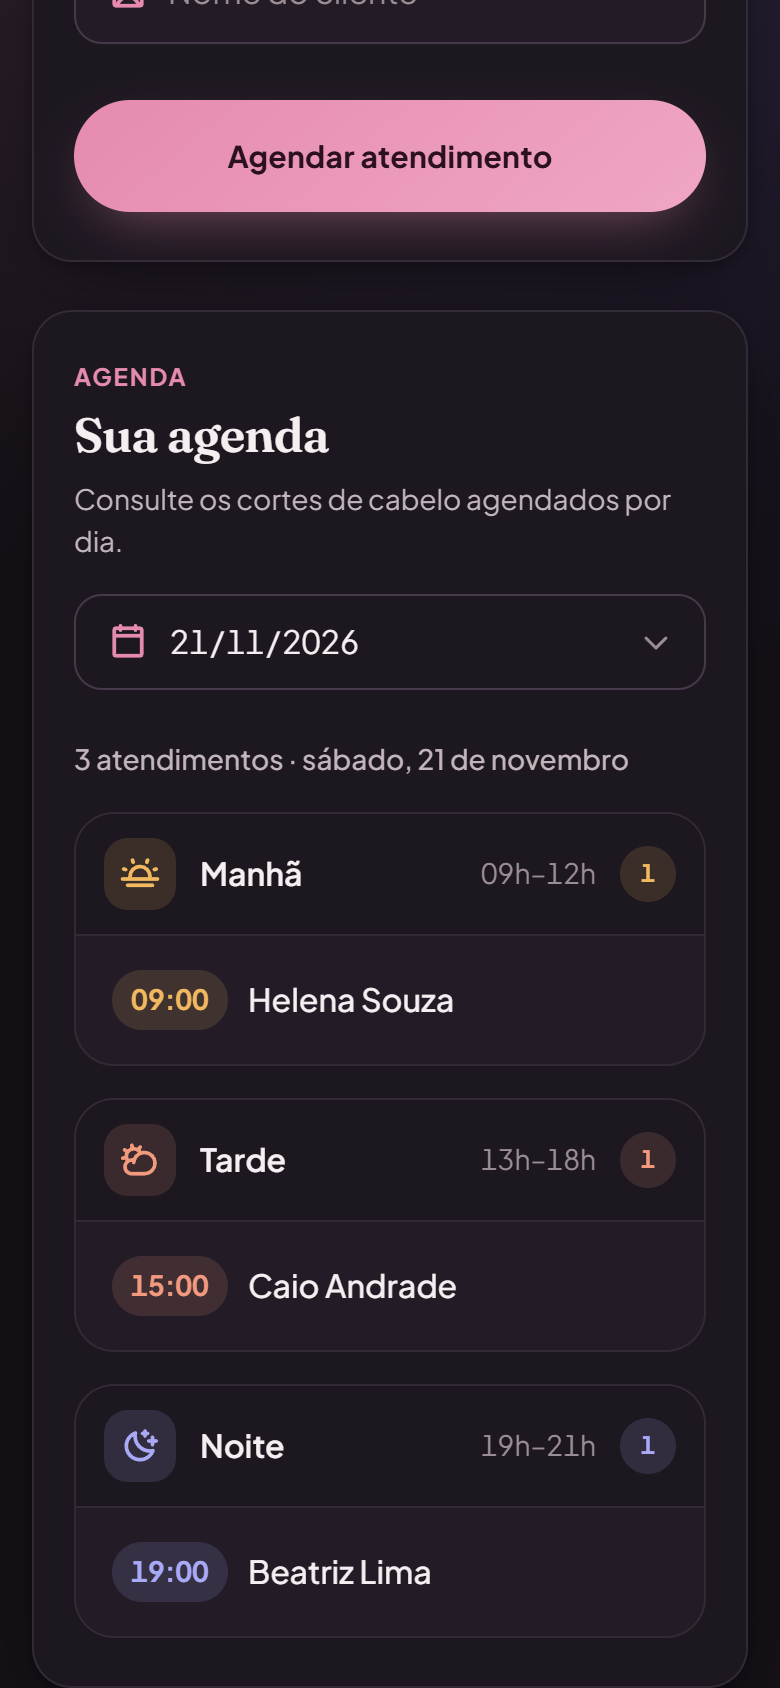
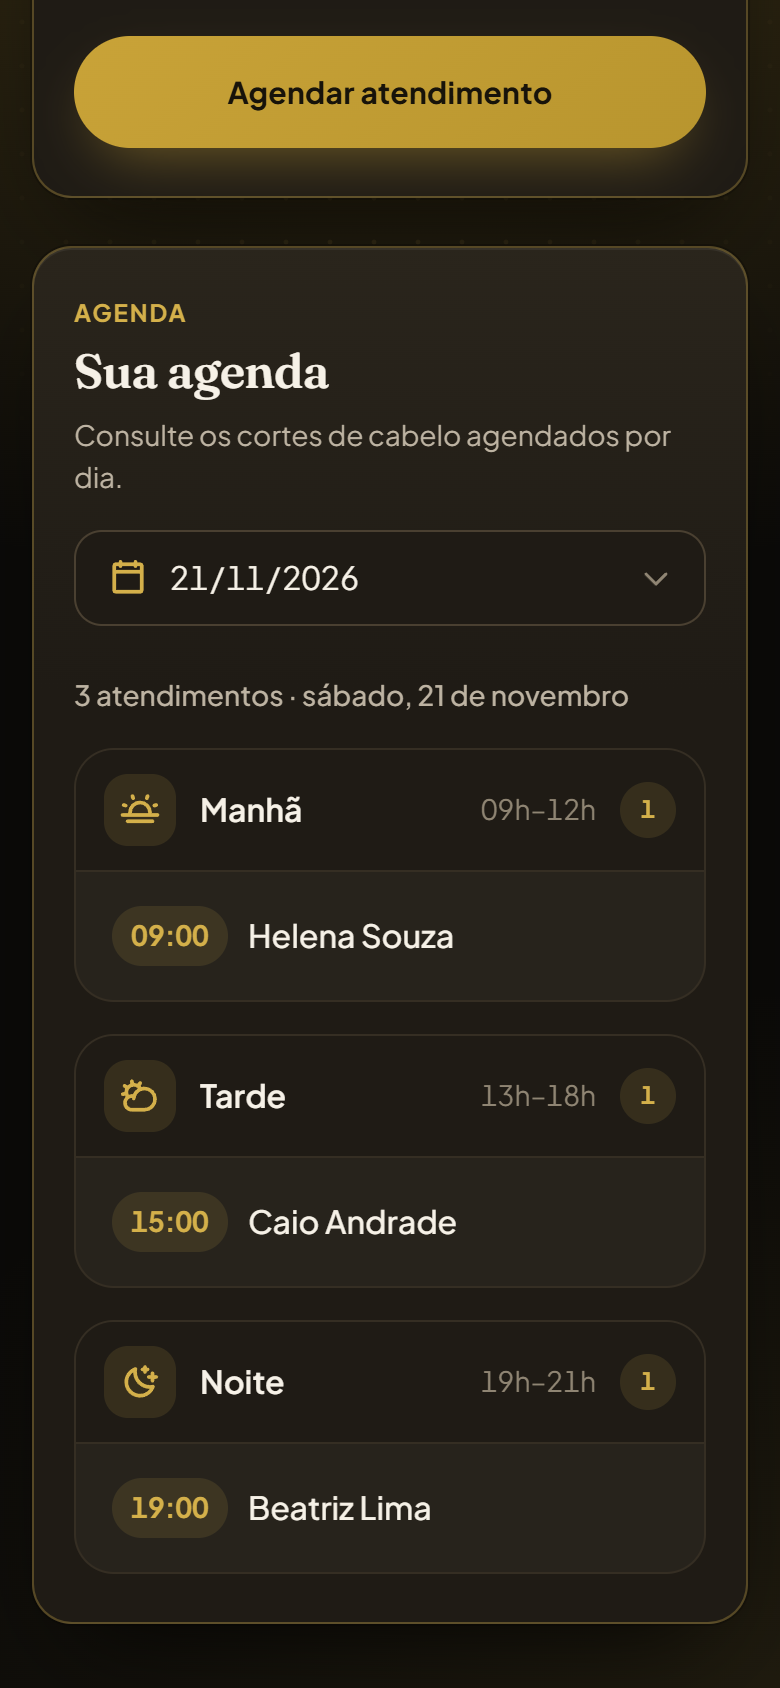
atualizando README com a nova paleta

diff --git a/README.md b/README.md
@@ -5,12 +5,12 @@
 </p>
 
 <p align="center">
-  <img alt="Status: projeto concluído" src="https://img.shields.io/badge/status-conclu%C3%ADdo-A3476B?style=flat-square&labelColor=2A1F25">
-  <img alt="JavaScript ES Modules" src="https://img.shields.io/badge/JavaScript-ES%20Modules-A3476B?style=flat-square&logo=javascript&logoColor=white&labelColor=2A1F25">
-  <img alt="Vite" src="https://img.shields.io/badge/Vite-8-A3476B?style=flat-square&logo=vite&logoColor=white&labelColor=2A1F25">
-  <img alt="json-server" src="https://img.shields.io/badge/API-json--server-A3476B?style=flat-square&logo=json&logoColor=white&labelColor=2A1F25">
-  <img alt="Vitest" src="https://img.shields.io/badge/testes-Vitest-A3476B?style=flat-square&logo=vitest&logoColor=white&labelColor=2A1F25">
-  <img alt="Tema claro e escuro" src="https://img.shields.io/badge/tema-claro%20%2F%20escuro-A3476B?style=flat-square&labelColor=2A1F25">
+  <img alt="Status: projeto concluído" src="https://img.shields.io/badge/status-conclu%C3%ADdo-B8952E?style=flat-square&labelColor=231E15">
+  <img alt="JavaScript ES Modules" src="https://img.shields.io/badge/JavaScript-ES%20Modules-B8952E?style=flat-square&logo=javascript&logoColor=white&labelColor=231E15">
+  <img alt="Vite" src="https://img.shields.io/badge/Vite-8-B8952E?style=flat-square&logo=vite&logoColor=white&labelColor=231E15">
+  <img alt="json-server" src="https://img.shields.io/badge/API-json--server-B8952E?style=flat-square&logo=json&logoColor=white&labelColor=231E15">
+  <img alt="Vitest" src="https://img.shields.io/badge/testes-Vitest-B8952E?style=flat-square&logo=vitest&logoColor=white&labelColor=231E15">
+  <img alt="Tema claro e escuro" src="https://img.shields.io/badge/tema-claro%20%2F%20escuro-B8952E?style=flat-square&labelColor=231E15">
 </p>
 
 <p align="center">
@@ -32,7 +32,7 @@
 
 O **Hair Day** é uma aplicação para salões de beleza organizarem seus atendimentos. Em uma única tela, é possível **agendar um corte** escolhendo data, horário e cliente, e **consultar a agenda de qualquer dia**, separada por manhã, tarde e noite, com a opção de cancelar agendamentos.
 
-O projeto foi construído com **JavaScript puro (ES Modules)**, sem frameworks, com foco em **formulários** (validação, acessibilidade e estados de envio) e **integração com API REST** (`GET`, `POST` e `DELETE` com `fetch`). O layout parte do modelo *Plataforma de agendamento*, disponível na Figma Community, e recebeu uma **identidade visual nova**, descrita em [Design](#design).
+O projeto foi construído com **JavaScript puro (ES Modules)**, sem frameworks, com foco em **formulários** (validação, acessibilidade e estados de envio) e **integração com API REST** (`GET`, `POST` e `DELETE` com `fetch`). O layout parte do modelo *Plataforma de agendamento*, disponível na Figma Community, e foi redesenhado com o dourado original sobre um fundo mais elegante, como descrito em [Design](#design).
 
 ## Demonstração visual
 
@@ -41,7 +41,7 @@ O projeto foi construído com **JavaScript puro (ES Modules)**, sem frameworks, 
 </p>
 
 <p align="center">
-  <img src="docs/desktop-dark.png" width="100%" alt="A mesma tela no tema escuro, com fundo ameixa escuro e destaques em rosa">
+  <img src="docs/desktop-dark.png" width="100%" alt="A mesma tela no tema escuro, com fundo café, brilho dourado no topo e painéis com borda dourada">
 </p>
 
 <p align="center">
@@ -123,16 +123,19 @@ As funções de cada rota ficam em [`src/services/schedules.js`](src/services/sc
 
 ## Design
 
-O layout original do Figma usa fundo cinza-escuro, destaque mostarda e cantos quase retos. Para uma aparência mais acolhedora, alinhada a um salão de beleza, a interface foi redesenhada mantendo a mesma estrutura e os mesmos ícones:
+O layout original do Figma usa fundo cinza-escuro, cards cinza e cantos quase retos. A interface foi redesenhada para uma aparência mais elegante, mantendo a mesma estrutura, os mesmos ícones e o **dourado da marca** (`#B8952E` e `#846F2E`), para que as cores conversem com os ícones:
 
 | Aspecto | Figma original | Hair Day |
 | --- | --- | --- |
-| Paleta | Cinzas escuros e mostarda `#B8952E` | Linho quente `#F6F1EC`, branco e ameixa `#A3476B`; tema escuro com rosa `#E58BAF` |
+| Paleta | Cinzas frios e dourado `#B8952E` | Dourado `#B8952E` sobre tons neutros quentes: marfim `#F4EFE6` no tema claro e café `#0B0A08` no escuro |
+| Fundo | Cor sólida | Brilho dourado no topo e padrão de pontos finos que esmaece em direção ao conteúdo |
+| Cards | Cinza sobre cinza | Gradiente de luz no topo e borda dourada fina, destacando os painéis do fundo nos dois temas |
 | Forma | Raios de 8px | Painéis com 28px, campos com 14px, horários e botões em formato de pílula |
-| Profundidade | Superfícies chapadas | Sombras suaves, brilho radial no fundo e degradê nos elementos de destaque |
 | Tipografia | Catamaran | Fraunces (títulos) e Plus Jakarta Sans (textos) |
-| Períodos | Ícones na cor da marca | Ícones em círculos coloridos: âmbar (manhã), coral (tarde) e índigo (noite) |
+| Períodos | Ícones dourados | Ícones dourados em círculos com fundo suave e contador de agendamentos |
 | Tema | Somente escuro | Claro e escuro |
+
+No tema claro, o dourado de preenchimento (`--accent`) é usado em botões e no horário selecionado com texto escuro, e textos e ícones usam o tom mais escuro do layout (`#846F2E`), mantendo o contraste legível sobre fundos claros.
 
 ### Design tokens
 
@@ -140,14 +143,16 @@ Cores, raios, sombras e tipografia ficam centralizados em variáveis no `:root` 
 
 | Token | Claro | Escuro | Uso |
 | --- | --- | --- | --- |
-| `--bg` | `#F6F1EC` | `#141016` | Fundo da página |
-| `--surface` | `#FFFFFF` | `#1D1720` | Painéis e cards |
-| `--border-strong` | `#DCCFC5` | `#45394A` | Bordas de campos e horários |
-| `--text` | `#2A1F25` | `#F5EFF2` | Títulos e textos principais |
-| `--text-muted` | `#6E6066` | `#C2B5BC` | Textos de apoio |
-| `--primary` | `#A3476B` | `#E58BAF` | Marca, horário selecionado e botão principal |
-| `--danger` | `#C2413B` | `#F08A80` | Erros e cancelamento |
-| `--morning` / `--afternoon` / `--night` | `#C77A12` / `#D0603F` / `#5B5BD6` | `#F2B860` / `#F29A7E` / `#A9AAF7` | Cores dos períodos |
+| `--bg` | `#F4EFE6` | `#0B0A08` | Fundo da página |
+| `--surface` | `#FFFDF9` | `#1F1B15` | Painéis |
+| `--panel-border` | dourado a 22% | dourado a 30% | Borda dos painéis |
+| `--border-strong` | `#DBD0BC` | `#4A4031` | Bordas de campos e horários |
+| `--text` | `#231E15` | `#F6F1E7` | Títulos e textos principais |
+| `--text-muted` | `#675E4F` | `#BDB3A2` | Textos de apoio |
+| `--accent` | `#B8952E` | `#C9A338` | Logo, horário selecionado e botão principal |
+| `--primary` | `#846F2E` | `#D4B04A` | Textos, ícones e foco na cor da marca |
+| `--on-accent` | `#1A1508` | `#17130A` | Texto sobre o dourado |
+| `--danger` | `#B93A34` | `#EF8A7F` | Erros e cancelamento |
 | `--radius-md` / `--radius-xl` / `--radius-pill` | 14px / 28px / 999px | — | Campos, painéis e horários/botões |
 
 Os ícones SVG do Figma são aplicados como **máscara CSS** (`mask-image`), então assumem a cor do texto (`currentColor`) e acompanham o tema sem duplicar arquivos.
